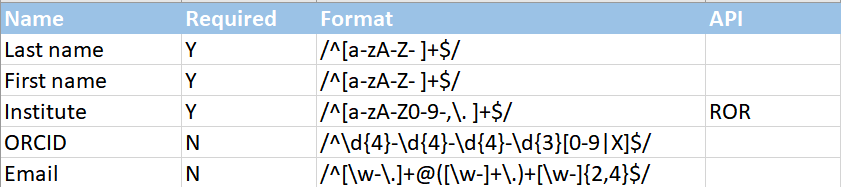
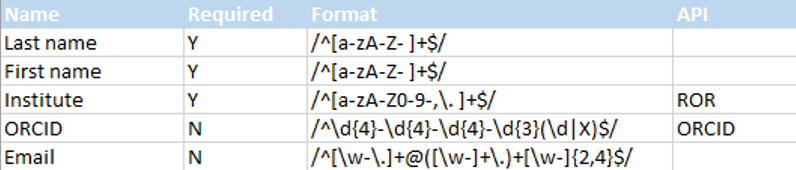
update

diff --git a/docs/dictionaries.md b/docs/dictionaries.md
@@ -40,7 +40,7 @@ sh ./run passwd <user>
 
 * Thus, we know that the people dictionary must contain 5 columns (last name, first name, institution, [ORCID][5]{:target="_blank"} number and email address) and that some fields are mandatory (last name, first name, institution) and others optional (ORCID number, email address).
 * Each of the fields must respect a format specified by a [regular expression][1]{:target="_blank"} in order to be accepted as valid.
-* Optionally, you can connect an [web API][2]{:target="_blank"} to each of the fields in order to make an entry by autocompletion from a remote register. Currently only ROR ([Research Organization Registry][3]{:target="_blank"}) web API is possible but the mechanism is in place for new extensions.
+* Optionally, you can connect an [web API][2]{:target="_blank"} to each of the fields in order to make an entry by autocompletion from a remote register. Currently only ROR ([Research Organization Registry][3]{:target="_blank"}) and [ORCID][6]{:target="_blank"} are possible but the mechanism is in place for new extensions.
 * The third file, a very simple script written in [JavaScript][4]{:target="_blank"}, defines the way to retrieve the list of names (here by containing the first and last name). Note that the name of the variable must always be identical to that of the dictionary.
 ```js
 var people = [];
@@ -50,6 +50,11 @@ get_dictionary_values('people', merge=[0,' ',1])
 * Below, an example is given when modifying a record. When you click on the *Institute* field which is connected to the ROR web API, the drop-down list of reseach organizations that can correspond in the register appears, if there are any.
 <center>
 <a href="../images/dico1.png" data-lightbox="fig1"><img src="../images/dico1.png" width="600px"></a>
+</center>
+
+* As for the [ORCID API][6]{:target="_blank"}, the search is not done from the target cell but from the last name and first name given in the first two cells. If the search gives nothing, then a second query will be done only from the last name, because of the many possibilities of spelling first names, with or without accents, with hyphens or not in the case of a compound first name, etc.
+<center>
+<a href="../images/dico1b.png" data-lightbox="fig1b"><img src="../images/dico1b.png" width="600px"></a>
 </center>
 
 * **Note**: It is possible to edit dictionaries, by adding an entry for example, and at the same time be able to immediately find this new entry in the metadata entry in the Maggot tool. Indeed each dictionary is reloaded into memory as soon as the corresponding input box is clicked. See <a href="../images/dico6.png" data-lightbox="fig6">an illustration</a>.
@@ -96,5 +101,6 @@ get_dictionary_values('people', merge=[0,' ',1])
 [3]: https://ror.org/
 [4]: https://en.wikipedia.org/wiki/JavaScript
 [5]: https://info.orcid.org/researchers/
+[6]: https://info.orcid.org/documentation/api-tutorials/api-tutorial-searching-the-orcid-registry/
 
 [10]: https://github.com/inrae/pgd-mmdt/tree/main/web/cvlist
